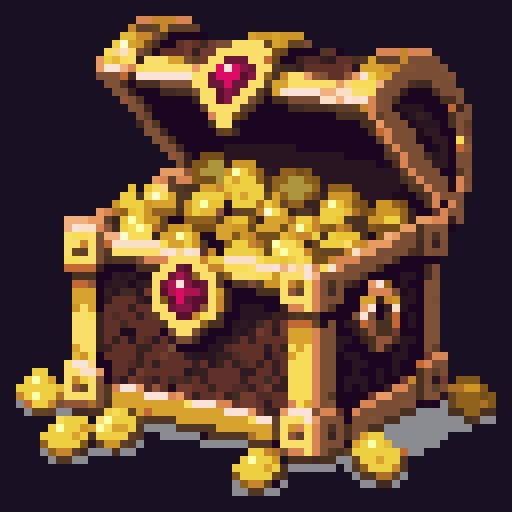
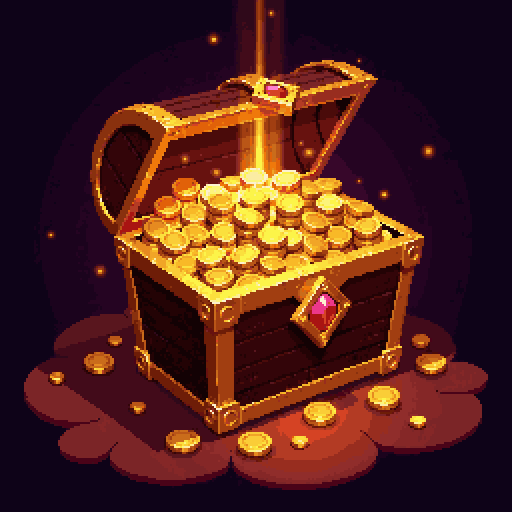
art: detailed 512px VX Shop images for all nine products on sale
New 256px PixelLab shop art per product, scaled exactly 2x. Old 8x icon
upscales kept in art/products/v1. In-game shop icons are unchanged.

diff --git a/docs/art-style.md b/docs/art-style.md
@@ -117,3 +117,8 @@
 - 배지: `public/ui/vip_{bronze,silver,gold,ruby}.png`(pixflux 32px, seed 1601~1604, 원본 `art/ui/vip/`). 1~3 청동, 4~6 은, 7~9 금, 10 루비 왕관.
 - 전용 외형: VIP 5 용암 마왕 `lord_lava_*`(object 7437326d, v3 idle 4·attack 7·death 7), VIP 8 보라 날개 악마 `lord_demon_*`(character b709de8d, idle·death 템플릿, attack v3 두 번째 판 attack2). 악마 공격은 한 프레임 섬광과 몸통 굵기 변화가 있어 다시 뽑을 수 있다(첫 판 프레임 `art/frames/lord_demon_attack_v1`).
 - VIP 10 루비 오라: `.aura.ruby`(홈 탑 마왕 테두리). 전투 캔버스는 아직 보라 오라(외형이 있을 때만).
+
+## 상품 이미지 고급화 (2026-09-30)
+- VX Shop 대시보드용 512×512: pixflux 256×256 `highly detailed`, 문장 틀 "dark fantasy game shop item art, centered: <상품>, dark purple background with soft vignette glow, no text" → NEAREST 2배.
+- 시즌 패스는 두루마리 판(`hq/season_pass_scroll.png`)이 비어 보여 흑룡 + 해골 메달 판으로, 새끼 용은 검은 판(`hq/recruit_dragon_black.png`)이 흑룡 외형과 헷갈려 게임 속 빨간 새끼 용으로 다시 뽑음. 스타터팩 오른쪽 아래 흔적은 배경색으로 덮음.
+- 게임 안 상점 아이콘(`public/icons/prod_*.png`, 64px)은 그대로.

diff --git a/docs/vxshop-products.md b/docs/vxshop-products.md
@@ -44,7 +44,7 @@
 
 - Product ID는 `server/src/purchases.ts`의 `PRODUCTS`와 **글자까지 같아야** 한다. 서버는 모르는 ID를 받으면 `{ success: false }`를 돌려준다.
 - Stock Quantity는 문서대로 "무제한이면 높은 숫자".
-- Image: 512×512 PNG (`art/products/`, 64px 아이콘을 8배 확대한 것, 바탕 `#1a1024`).
+- Image: 512×512 PNG (`art/products/`). 2026-09-30 고급화: 판매 중 9개를 pixflux 256×256(배경 있는 상점 그림, seed 1701~1709·1717·1726)으로 새로 그려 정확히 2배. 원본 `art/products/hq/`, 이전 그림(64px 8배) `art/products/v1/`. **대시보드 이미지 교체 필요(사용자).**
 - Metadata(JSON)는 비워 둔다. 서버가 쓰지 않는다.
 - 최저가는 100 VX(사용자 결정, 2026-09-29: 100 VX 미만 상품은 두지 않는다). 8개 합계 1,700 VX.
 - 지급량은 `BALANCE`(`starterGold`, `dailySupplyGold` 등)에 있다. **2026-09-29 큰 숫자 성장:** 골드 보상은 공성 최고 10단계까지 그대로, 그 뒤 단계마다 ×1.2(`growth.ts` `scaledGold`). 그래서 대시보드 설명에는 고정 골드 숫자를 쓰지 않는다. 게임 안 상점은 그 계정이 실제로 받을 금액을 보여 준다.
